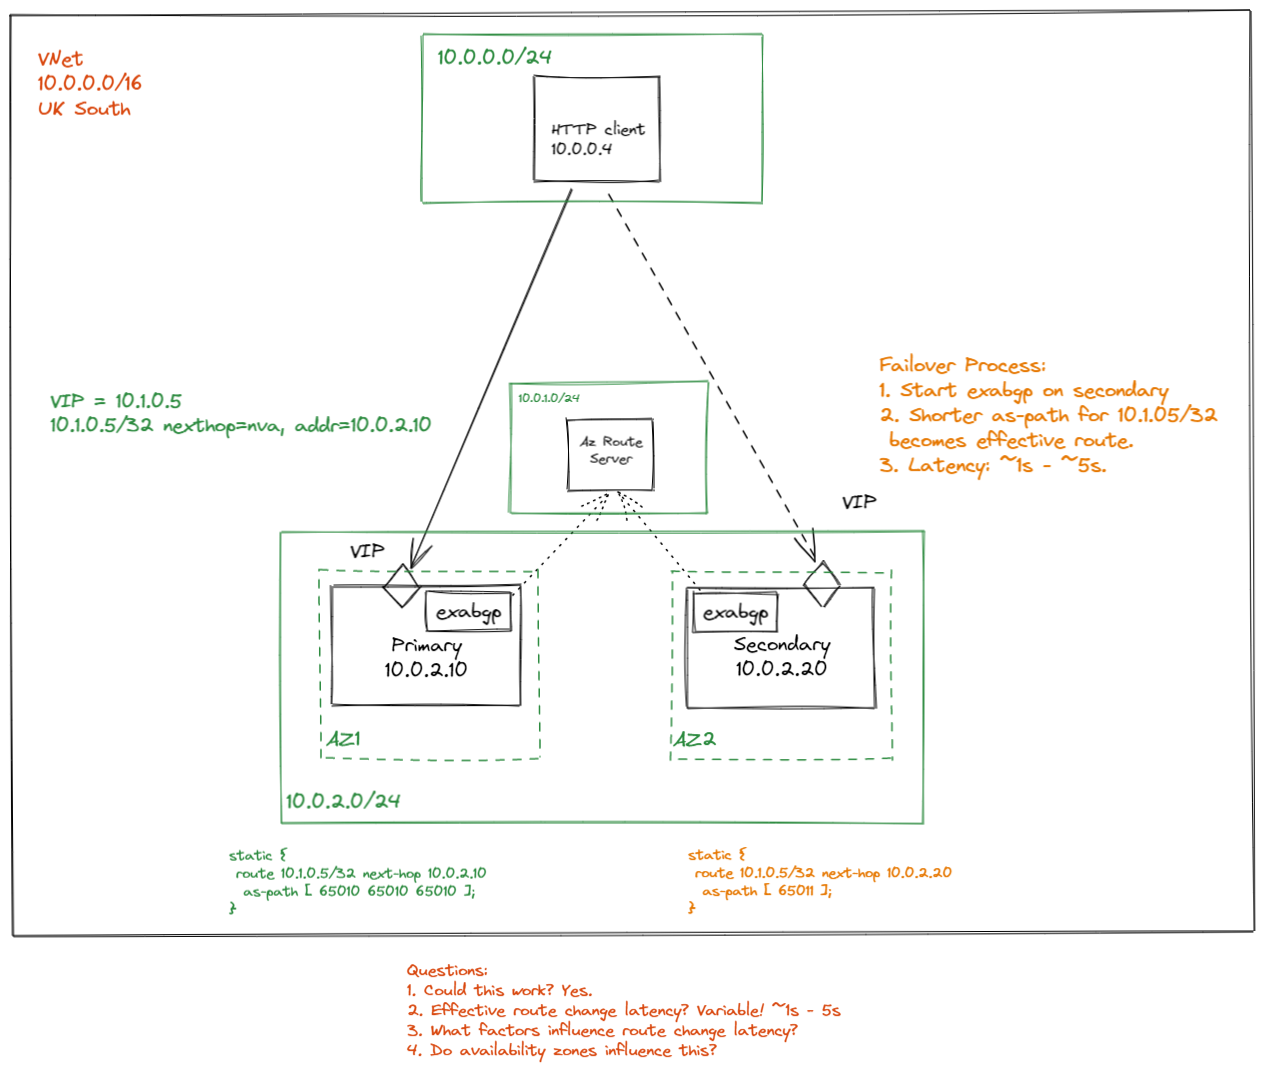
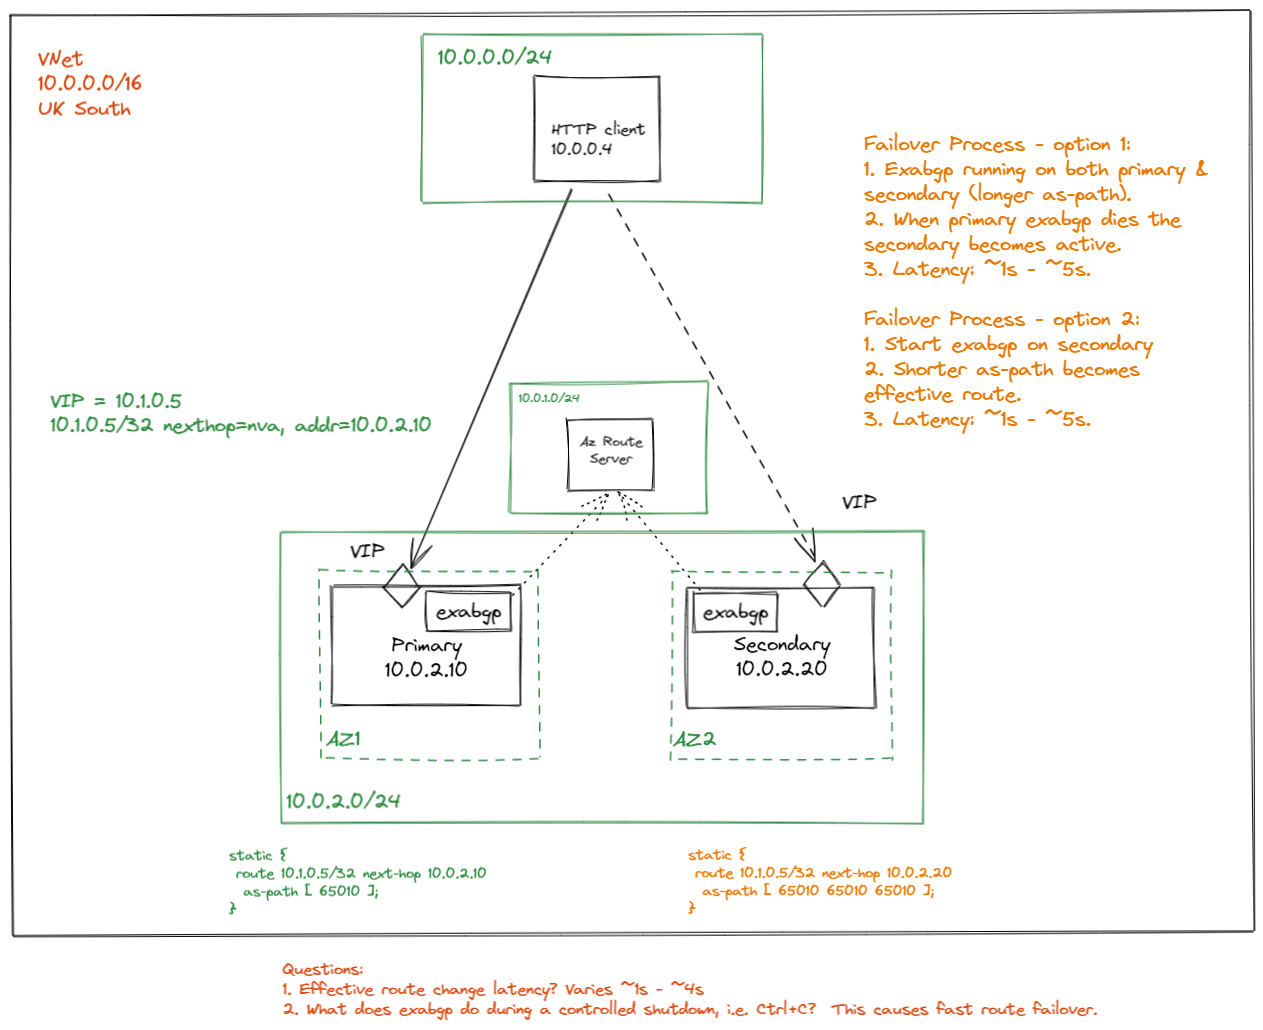
Various updates

diff --git a/web/server.js b/web/server.js
@@ -1,13 +1,16 @@
-const express = require('express');
-const app = express();
+const http = require('http');
 
 const myId = process.env["ID"] || "NOT-SET"
 const port = process.env["PORT"] || 3000;
 
-app.get('/', function (req, res) {
-    res.send(`${myId}`);
-});
+http.createServer((request, response) => {
+    response.writeHead(200, {
+        'Content-Type': 'text/plain'
+    });
 
-app.listen(port, () => {
+    response.write(`${myId}`);
+    response.end();
+
+}).listen(port, () => {
     console.log(`Listening on port:${port}, ID:${myId}`);
 });

diff --git a/README.md b/README.md
@@ -4,68 +4,91 @@
 
 # Steps
 
-## Create Virtual Network
-- VNet 10.0.0.0/16
-- Subnets:
-    - default: 10.0.0.0/24
-    - AzureRouteServer: 10.0.1.0/24
-    - servers: 10.0.2.0/24
+## Create Azure Route Server
+1. Create in `RouteServerSubnet`
+1. Add `10.0.2.10` and `10.0.2.20` as Peers on ASN `65515` (via Portal or otherwise) - if you don't do this then `exabgp` will be refused a connection.
+1. These IP addresses will be used by the priamry and secondary VMs.
 
 ## Create jumpbox as a client VM
 - Simple low-spec ubuntu VM
 - SSH jumpbox and pretend web client
 
+### Start http-ping
+1. On the client/jumpbox VM run the script: [http-ping.sh](/scripts/http-ping.sh).
+1. You will see output like:
+```
+2021-11-22T14:46:35,983290736+00:00 +
+2021-11-22T14:46:37,096042443+00:00 +
+```
+That shows: `{Date}T{Time} + {Server ID}`.  If nothing appears after the `+` that's because no reply was received from the VIP (=`10.1.0.5`).  That's okay, the servers aren't setup yet.
+
+## Create Virtual Network
+- VNet `10.0.0.0/16`
+- Subnets:
+    - default: `10.0.0.0/24`
+    - AzureRouteServer: `10.0.1.0/24`
+    - servers: `10.0.2.0/24`
+
 ## Create primary and secondary VMs with web app
 - Simple low-spec ubuntu VMs
-- Placed in 'servers' subnet
-- Private IP only
+- Placed in `servers` subnet, private IPs only
+- Primary IP = `10.0.2.10`
+- Secondary = `10.0.2.20`
 
-### Web app
-```
-sudo apt update -y && sudo apt install -y nodejs
-```
+### Web app creation
+1. On the primary and secondary VMs, review the script: [server-setup.sh](/scripts/server-setup.sh).  This installs the dependencies `node` and `exabgp` and configures the VIP with `ifconfig`.
+1. Run the script.
+1. Launch the web server, e.g.
+    1. Primary server: `ID=PRI node ./web/server.js &`
+    2. Secondary server: `ID=SEC node ./web/server.js &`
+1. That command uses `&` to fork the process into the background.  Use `fg` to bring it back to the foreground.
 
-### IP addresses
-- Primary: 10.0.2.10
-- Secondary: 10.0.2.20
+### Configure exabgp
+1. On the primary VM run:
+    1. [primary-exabgp-setup.sh](/scripts/primary-exabgp-setup.sh).  This creates a file in the current directory called `conf.ini`.
+    1. Launch exabgp: `exabgp --debug ./conf.ini`
+    1. At this point the `http-ping` on the client/jumpbox should start to provide responses.
+1. On the secondary VM run:
+    1. [secondary-exabgp-setup.sh](/scripts/secondary-exabgp-setup.sh).  This creates a file in the current directory called `conf.ini`.
+    1. Launch exabgp: `exabgp --debug ./conf.ini`
 
-## Create Azure Route Server
-Commands in order
-1. Create in `RouteServerSubnet`
-1. Add `10.0.2.10` and `10.0.2.20` as Peers (via Portal or otherwise) - if you don't do this then `exabgp` will not connect.
-1. 
-
-## Configure exabgp
+`exabgp` should now be running on both primary and secondary VMs.
 
 ## Verify
-1. Ping from jumpbox: `ping 10.1.0.5`
-1. Web request: `curl http://10.1.0.5:3000`
-1. Run `$/scripts/http-ping.sh`.
-
-# Issues / Questions / Notes
-
-1. Issue: Can the primary and secondary VMs be registered with the same local ASN?  I had issues, `exabgp` failed to communicate with ASR.  Registering peers within ASR using different ASNs fixed the problem.
-1. Issue: Experimenting with the 'MED' attribute for routes like [ `route 10.1.0.5/32 next-hop 10.0.2.10 med 10;`, `route 10.1.0.5/32 next-hop 10.0.2.10 med 50;` ] I see load-balancing-like behaviour where the jumpbox VM sending a `curl http://vip:3000` every 1 second gets interleaved results from both the primary and secondary servers:
+Normal state of [http-ping.sh](/scripts/http-ping.sh) will see a response like:
 ```
 ...
-Tue Nov 9 09:41:39 UTC 2021 + PRI
-Tue Nov 9 09:41:40 UTC 2021 + PRI
-Tue Nov 9 09:41:41 UTC 2021 + PRI
-Tue Nov 9 09:41:42 UTC 2021 + SEC
-Tue Nov 9 09:41:43 UTC 2021 + PRI
-Tue Nov 9 09:41:44 UTC 2021 + SEC
-Tue Nov 9 09:41:45 UTC 2021 + SEC
-Tue Nov 9 09:41:46 UTC 2021 + PRI
+2021-11-22T14:51:42,102116071+00:00 + PRI
+2021-11-22T14:51:42,214647212+00:00 + PRI
 ...
 ```
+Showing responses coming from the primary VM.
 
-3. Note: With both BGP speakers stopped, then starting the primary, the HTTP client begins working within a couple of seconds.
-4. Note: Stopping the primary BGP speaker breaks the HTTP client within a couple of seconds.  Routes updated very quickly?
-5. Note: Contrary to the above 2 notes, on further attempts it took about 10 seconds to have an effective working route.
-6. Note: With both BGP speakers, secondary.as-path length = 1, and primary.as-path length = 3, the secondary route is preferred, as expected.
-7. Note: Following #6 above, terminating the secondary BGP speaker fails over to the primary route almost immediately.  This simulates a 'fail back' approach.
-8. 
+Now perform a `Ctrl+C` of the `exabgp` process on the primary VM, within a couple of seconds the response should failover to the secondary VM:
+```
+...
+2021-11-22T14:53:15,744081418+00:00 + PRI
+2021-11-22T14:53:15,856580859+00:00 + PRI
+2021-11-22T14:53:15,969329001+00:00 + SEC // failed over ✅
+2021-11-22T14:53:16,082586449+00:00 + SEC
+2021-11-22T14:53:16,196167799+00:00 + SEC
+...
+```
+This example snippet showing the VIP effective route failing over to the secondary VM.
 
+## Timings
+These timings have been gathered crudely using aligned timestamps across VMs, nothing fancier than that!
+
+### Scenario 1 - primary to secondary failover
+
+
+# Further Notes
+1. Route changes seem to have a dampening/anti-flapping window of 30 seconds, e.g.
+    1. Terminate the primary exabgp
+    1. The route switches to secondary
+    1. Then very quickly launch exabgp on the secondary again
+    1. Tt will take 30 seconds from the initial failover before the primary becomes the effective route.
+1. With equal `as-path` lengths you get a load balanced ECMP behaviour for traffic across primary and secondary servers.
 
 # Documentation References
 - https://docs.microsoft.com/en-us/azure/route-server/quickstart-configure-route-server-cli
